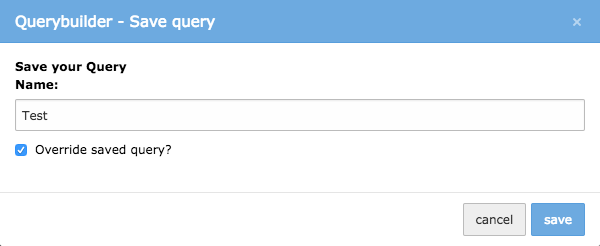
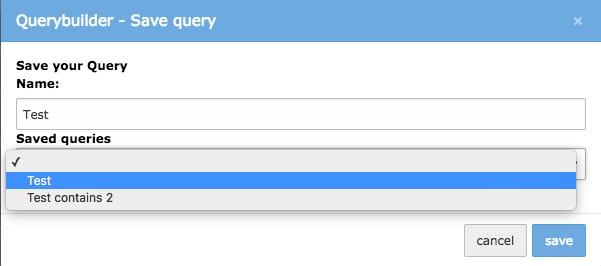
Merge pull request #29 in EXT/querybuilder from PE-30-save-and-override-function to master
Squashed commit of the following:

commit 49bc0c655981301146b6ba453b20ea1999130cbb
Author: Henrik Elsner <helsner@dfau.de>
Date:   Thu Aug 3 12:22:53 2017 +0200

    [TASK] Adapt docu to new override functionality

commit f4b0eac2f5863e58ab9f518af9e43aae0f3a5203
Author: Frank Naegler <frank.naegler@typo3.org>
Date:   Thu Aug 3 09:47:47 2017 +0200

    [TASK] Add dropdown to modal

commit 01e6dc66cac5b33a843f7fc0728ade9730a472e5
Author: Henrik Elsner <helsner@dfau.de>
Date:   Thu Jul 6 17:04:30 2017 +0200

    [WIP][TASK] Prepare override changes

commit 716e3fdc3bd112d7e862fa314906da385db8b83d
Author: Henrik Elsner <helsner@dfau.de>
Date:   Thu Jul 6 15:10:25 2017 +0200

    [TASK] Prepare new override function

diff --git a/Resources/Public/JavaScript/QueryBuilder.js b/Resources/Public/JavaScript/QueryBuilder.js
@@ -125,7 +125,6 @@ define(['jquery',
 			try {
 				lastQuery = JSON.parse(lastQuery);
 				QueryBuilder.instance.queryBuilder('setRules', lastQuery);
-				//QueryBuilder.applyFilter();
 			} catch (err) {
 				console.log(err.message);
 			}
@@ -225,13 +224,10 @@ define(['jquery',
 				$('<label />', {for: 'queryname'}).text(TYPO3.lang['modal.queryname'] || 'Name: '),
 				$('<input />', {name: 'queryname', class: 'form-control', value: queryName})
 			),
+			$('<dt />').text(TYPO3.lang['recent.header'] || 'Saved queries'),
 			$('<dd />').append(
-				$('<div />', {class: 'checkbox'}).append(
-					$('<label />').append(
-						$('<input />', {name: 'override', type: 'checkbox'}),
-						$('<span />').text(TYPO3.lang['modal.override'] || 'Override saved query?')
-					)
-				)
+				$('#t3js-querybuilder-recent-queries').clone()
+					.attr('id', null)
 			)
 		);
 		var queryBuilderAjaxUrl = TYPO3.settings.ajaxUrls.querybuilder_save_query;
@@ -258,9 +254,10 @@ define(['jquery',
 						$('input[name=queryname]', Modal.currentModal).parent().addClass('has-error');
 						return;
 					}
-					var uid = QueryBuilder.querySelector.val();
+					var $modalSelect = $('select[name=recent-queries]', Modal.currentModal);
 					var queryName = $('input[name=queryname]', Modal.currentModal).val();
-					var override = $('input[name=override]', Modal.currentModal).is(':checked');
+					var uid = $modalSelect.val();
+					var override = uid !== -1 ? 1 : 0;
 					var query = JSON.stringify(QueryBuilder.instance.queryBuilder('getRules'), null, 2);
 					$.ajax({
 						url: queryBuilderAjaxUrl,
@@ -270,7 +267,7 @@ define(['jquery',
 							query: query,
 							queryName: queryName,
 							uid: uid,
-							override: override ? 1 : 0
+							override: override
 						},
 						success: function(data) {
 							if (data.status === 'ok') {
@@ -288,11 +285,7 @@ define(['jquery',
 					});
 				}
 			}]
-		).on('shown.bs.modal', function() {
-			(QueryBuilder.querySelector.val() < 1)
-				? $('input[name=override]', Modal.currentModal).attr('disabled', true)
-				: $('input[name=override]', Modal.currentModal).attr('disabled', false);
-		});
+		)
 	};
 
 	QueryBuilder.applyFilter = function(configuration) {

diff --git a/Documentation/Save_Queries/Index.rst b/Documentation/Save_Queries/Index.rst
@@ -4,7 +4,7 @@ Save Query Functionality
 You can save your queries for multiple usages. Queries are saved based on the rules/groups, the userid, the affected table
 and the name you can give.
 
-Already saved queries can be overwritten by selecting them and just set the override checkbox to checked (after hitting the save button of course).
+Already saved queries can be overwritten by selecting them in the dialog.
 
 .. figure:: ../Images/Override-Querybuilder.png
    :class: with-border
